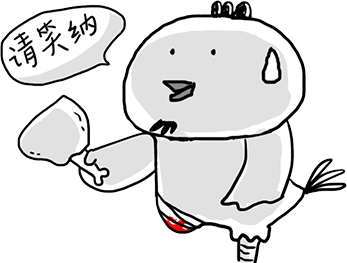
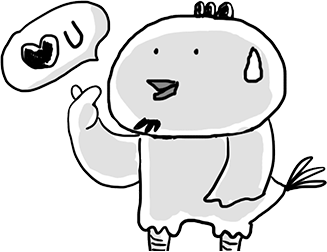
1、loading三层图； 2、小鸡形象替换； 3、slice.config更新；

diff --git a/src/sliceConfig.js b/src/sliceConfig.js
@@ -1,13 +1,186 @@
 export default {
+    '2': {
+        type: 2
+    },
+    '8': {
+        type: 2
+    }, 
+    '10': {
+        distance: '5000光年',
+        type: 2
+    },
+    '18': {
+        distance: '450光年',
+        type: 2
+    },
+    '21': {
+        y1: 1334,
+        y2: 0,
+        type: 3
+    },
+    '23': {
+        distance: '1400光年',
+        y1: 1334,
+        y2: 0,
+        type: 3
+    },
+    '28': {
+        distance: '980光年',
+        y1: 1334,
+        y2: 0,
+        type: 3
+    },
+    '31': {
+        y1: 1334,
+        y2: 0,
+        type: 3
+    },
+    '34': {
+        y1: 1334,
+        y2: 0,
+        type: 3
+    },
+    '38': {
+        distance: '4000光年',
+        type: 1
+    },
+    '41': {
+        y1: 1334,
+        y2: 0,
+        type: 3
+    },
+    '44': {
+        distance: '400光年',
+        y1: 1334,
+        y2: 0,
+        type: 3
+    },
+    '46': {
+        distance: '8.6光年',
+        y1: 1334,
+        y2: 0,
+        type: 3
+    },
+    '49': {
+        distance: '25.04光年',
+        type: 2
+    },
+    '56': {
+        distance: '4.22光年',
+        type: 2
+    },
+    '59': {
+        distance: '16.7光年',
+        type: 2
+    },
+    '61': {
+        distance: '20.4光年',
+        type: 2
+    },
+    '64': {
+        distance: '107.712亿公里',
+        type: 2
+    },
+    '67': {
+        type: 2
+    },
+    '69': {
+        distance: '101.728亿公里',
+        y1: 1334,
+        y2: 0,
+        type: 3
+    },
+    '74': {
+        distance: '59亿公里',
+        y1: 1334,
+        y2: 0,
+        type: 3
+    },
+    '76': {
+        y1: 1334,
+        y2: 0,
+        type: 3
+    },
+    '79': {
+        distance: '43.5亿公里',
+        type: 2
+    },
+    '82': {
+        distance: '27.19亿公里',
+        y1: 1334,
+        y2: 0,
+        type: 3
+    },
+    '84': {
+        y1: 1334,
+        y2: 0,
+        type: 3
+    },
+    '87': {
+        distance: '12.8亿公里',
+        y1: 1334,
+        y2: 0,
+        type: 3
+    },
+    '91': {
+        type: 1
+    },
+    '94': {
+        distance: '1.496亿公里',
+        y1: 1334,
+        y2: 0,
+        type: 3
+    },
+    '97': {
+        type: 1
+    },
+    '99': {
+        type: 2
+    },
+    '102': {
+        distance: '0.92亿公里',
+        type: 2
+    },
+    '105': {
+        distance: '6.3亿公里',
+        y1: 1334,
+        y2: 0,
+        type: 3
+    },
     '113': {
-        distance: '4150万公里'
+        distance: '4150万公里',
+        y1: 1334,
+        y2: 0,
+        type: 3
+    },
+    '115': {
+        type: 2
+    },
+    '118': {
+        distance: '5500万公里',
+        y1: 1334,
+        y2: 0,
+        type: 3
+    },
+    '120': {
+        type: 1
     },
     '121': {
         distance: '0公里',
-        special: true
+        y1: 1334,
+        y2: 0,
+        type: 3
+    },
+    '122': {
+        type: 1
     },
     '123': {
-        distance: '38.44万公里',
-        special: true
+        distance: '38.44公里',
+        y1: 1334,
+        y2: 0,
+        type: 3
+    },
+    '125': {
+        type: 2
     }
 }

diff --git a/src/textConfig.js b/src/textConfig.js
@@ -1,33 +1,41 @@
 export default {
     guide: { // 开场引导
-        type: 'tip',
-        tip: '散布在宇宙中的神秘力量，找到他们，神秘“鸡腿”在等你',
+        type: 'popup',
+        title: '欢迎来到TGP游戏世界',
+        text: '散布在宇宙中的神秘力量，找到他们，神秘“鸡腿”在等你',
         bgType: 1
     },
 
     found5: { // 找到5个
         type: 'tip',
-        tip: '赞！已发现5个游戏星球。神秘”鸡腿”就在星空深处，等你哟！',
-        bgType: 2
+        tip: '赞！已发现5个游戏星球。<br/>神秘”鸡腿”就在星空深处，等你哟！',
+        bgType: 1
     },
 
     found15: { // 找到15个
         type: 'tip',
-        tip: '啊！还差5个！<br>离“鸡腿”还差5个！',
-        bgType: 3
+        tip: '啊！还差5个！<br/>离“鸡腿”还差5个！',
+        bgType: 2
     },
 
     found20: { // 找到20个
         type: 'popup',
         title: '找到全部游戏星球！',
-        text: '我去！你还真找全了！<br>给跪，请收下我的鸡腿！',
-        bgType: 2
+        text: '我去！你还真找全了！<br/>给跪，请收下我的鸡腿！',
+        bgType: 3
     },
 
     blacksheepwall: { // 地图全开
         type: 'popup',
-        title: '找到全部游戏星球！',
+        title: '探索了整个宇宙！',
         text: '勤奋的少年，宇宙是不是充满了奥妙，去TGP的游戏世界，那里也是一样。',
-        bgType: 1
+        bgType: 2
+    },
+
+    finish: { //地图全开 + 找到20个
+        type: 'popup', 
+        title: '找到全部游戏星球！',
+        text: '至此你已看完，奥妙的宇宙和纷繁的TGP世界，你可以去分享了。',
+        bgType: 3
     }
 }
